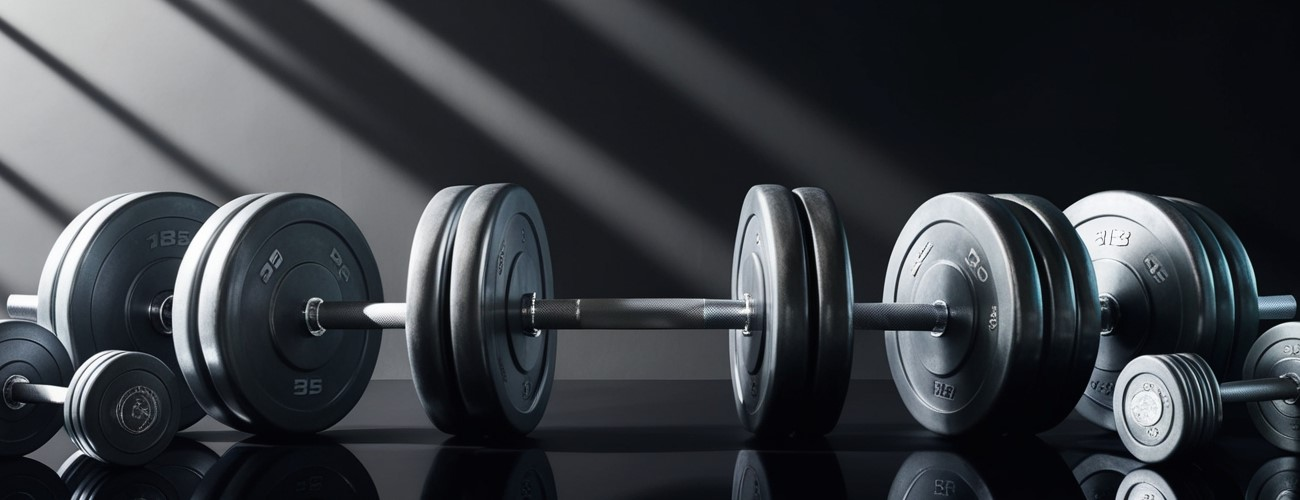
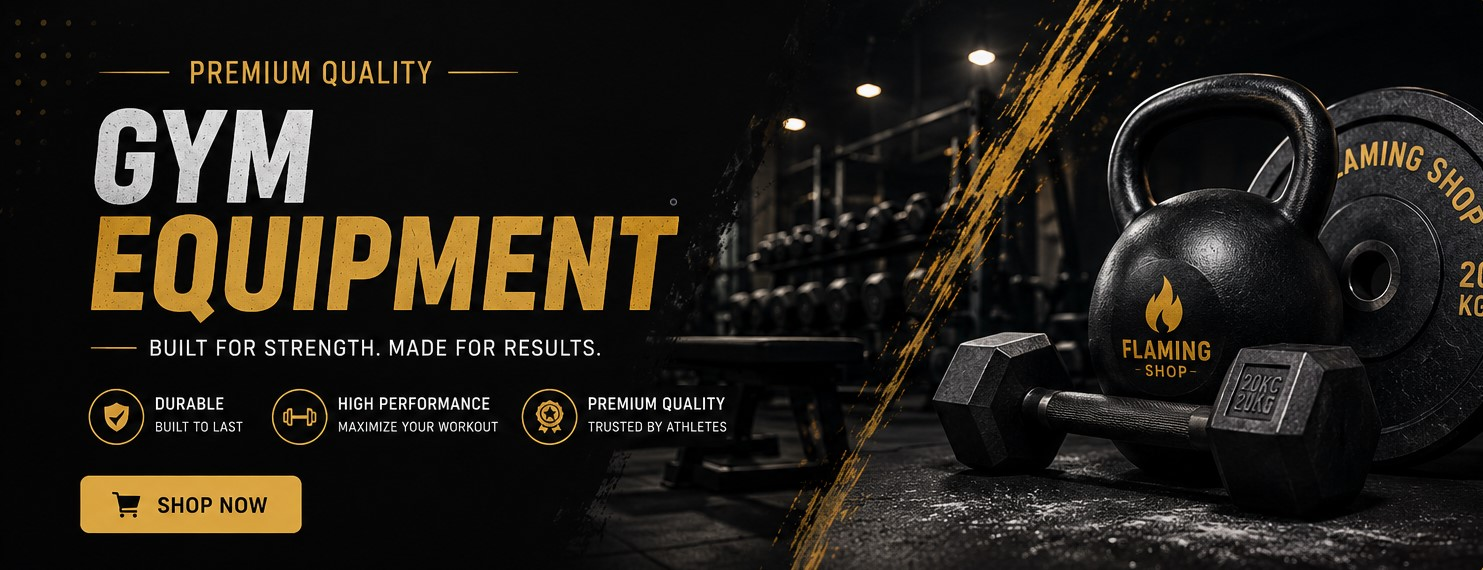
minor fixes

diff --git a/WebApplicationTest/wwwroot/css/productsDisplay.css b/WebApplicationTest/wwwroot/css/productsDisplay.css
@@ -136,6 +136,7 @@
     border-radius: 12px;
     font-weight: 600;
     transition: .25s;
+    display: flex;
 }
 
 .btn-update:hover {
